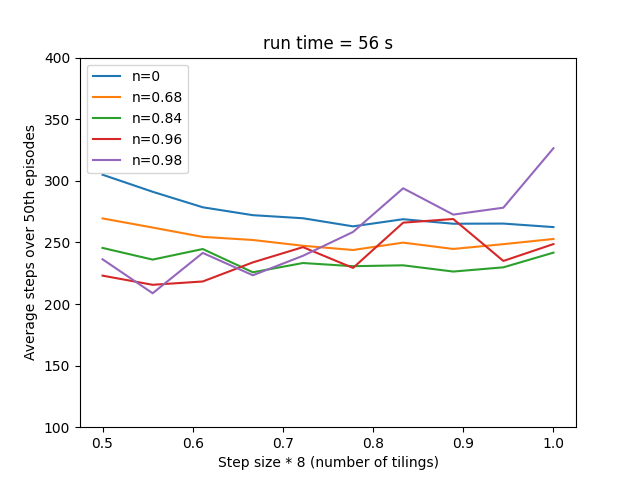
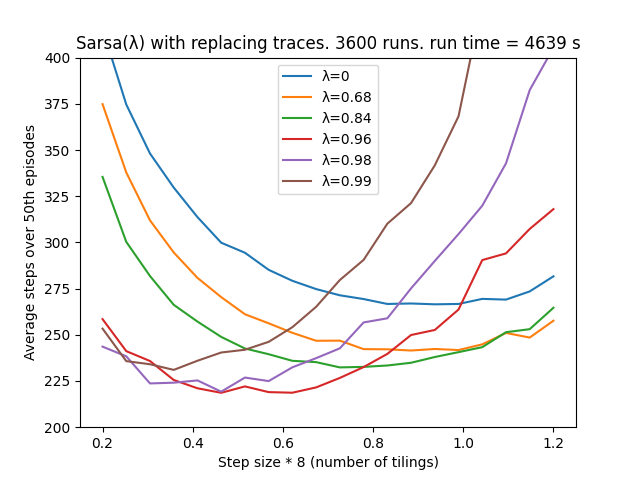
Sarsa(lambda)

diff --git a/Part II/CH12/Mountian_Car_Sarsa.py b/Part II/CH12/Mountian_Car_Sarsa.py
@@ -48,7 +48,7 @@ class MountainCar:
         self.weight = []
 
         # Tiling
-        self.max_size = 4096
+        self.max_size = 2048
         self.iht = IHT(self.max_size)
         self.pos_scale = self.n_tilings / abs(self.pos_bound[1] - self.pos_bound[0])
         self.vel_scale = self.n_tilings / abs(self.vel_bound[1] - self.vel_bound[0])
@@ -92,6 +92,12 @@ class MountainCar:
         active_tiles = tiles(self.iht, self.n_tilings, [pos * self.pos_scale, vel * self.vel_scale], [action])
         return active_tiles
 
+    def get_active_tiles_array(self, pos, vel, action):
+        x = np.zeros(self.max_size)
+        for i in self.get_active_tiles(pos, vel, action):
+            x[i] = 1
+        return x
+
     def get_state_action_value(self, pos, vel, action):
         """Approximate state-action value"""
         active_tiles = self.get_active_tiles(pos, vel, action)
@@ -100,12 +106,15 @@ class MountainCar:
         else:
             return np.sum(self.weight[active_tiles])
 
-    def sarsa_lambda(self, lamb):
-        """Sarsa(lambda) with binary features and linear function approximation"""
+    def sarsa_lambda(self, lamb, clearing=False):
+        """Sarsa(lambda) with binary features and linear function approximation.
+        Removed accumulating traces due to its poor performance."""
         self.reset()
         episode_length = []
+        episode_reward = []
         for _ in range(self.max_episodes):
             count = 0
+            total_reward = 0
             self.start_new_episode()
             z = np.zeros(self.max_size)
             pos, vel = self.pos, self.vel
@@ -113,19 +122,17 @@ class MountainCar:
             while True:
                 count += 1
                 pos_next, vel_next, reward = self.move_one_time_step(pos, vel, action)
-                delta = reward
-
-                for i in self.get_active_tiles(pos, vel, action):
-                    delta -= self.weight[i]
-                    # Replacing traces
-                    z[i] = 1
-                    # Accumulating traces
-                    # z[i] += 1
-
+                total_reward += reward
+                active_tiles = self.get_active_tiles(pos, vel, action)
+                delta = reward - np.sum(self.weight[active_tiles])
+                z[active_tiles] = [1] * self.n_tilings
+                if clearing:
+                    for a in self.actions:
+                        if a != action:
+                            z[self.get_active_tiles(pos, vel, a)] = [0] * self.n_tilings
                 if self.reached_terminal:
                     self.weight += self.step_size * delta * z
                     break
-
                 action_next = self.eps_greedy(pos_next, vel_next)
                 delta += self.discount * np.sum(self.weight[self.get_active_tiles(pos_next, vel_next, action_next)])
                 self.weight += self.step_size * delta * z
@@ -133,37 +140,111 @@ class MountainCar:
                 pos, vel, action = pos_next, vel_next, action_next
 
             episode_length.append(count)
-        return episode_length
+            episode_reward.append(total_reward)
+        return episode_length, episode_reward
+
+    def true_online_sarsa_lambda(self, lamb):
+        """True online Sarsa(lambda) for estimating"""
+        self.reset()
+        episode_length = []
+        episode_reward = []
+        for _ in range(self.max_episodes):
+            count = 0
+            total_reward = 0
+            self.start_new_episode()
+            pos, vel = self.pos, self.vel
+            action = self.eps_greedy(pos, vel)
+            x = self.get_active_tiles_array(pos, vel, action)
+            z = np.zeros(self.max_size)
+            q_old = 0
+            while not self.reached_terminal:
+                count += 1
+                pos_next, vel_next, reward = self.move_one_time_step(pos, vel, action)
+                total_reward += reward
+                action_next = self.eps_greedy(pos, vel)
+                x_next = self.get_active_tiles_array(pos_next, vel_next, action_next)
+                q, q_next = np.dot(self.weight, x), np.dot(self.weight, x_next)
+                delta = reward + self.discount * q_next - q
+                z = self.discount * lamb * z + (1 - self.step_size * self.discount * lamb * np.dot(z, x)) * x
+                self.weight += self.step_size * (delta + q - q_old) * z - self.step_size * (q - q_old) * x
+                q_old, x = q_next, x_next
+                pos, vel, action = pos_next, vel_next, action_next
+            episode_length.append(count)
+            episode_reward.append(total_reward)
+        return episode_length, episode_reward
 
     def figure_12_10(self):
         start_time = time.time()
         self.max_episodes = 50
-        repeat = 1
-        steps = [0, 0.68, 0.84, 0.96, 0.98]
-        time_steps = np.linspace(0.5, 1, 10)
+        repeat = 30
+        steps = [0, 0.68, 0.84, 0.96, 0.98, 0.99]
+        time_steps = np.linspace(0.2, 1.2, 20)
         runs = np.zeros((len(steps), len(time_steps)))
         plt.figure()
-        for _ in range(repeat):
+        for _ in trange(repeat):
             for i in range(len(steps)):
                 step = steps[i]
-                for j in trange(len(time_steps)):
+                for j in range(len(time_steps)):
                     self.step_size = time_steps[j] / self.n_tilings
-                    runs[i, j] += np.mean(self.sarsa_lambda(step))
+                    runs[i, j] += np.mean(self.sarsa_lambda(step)[0])
         runs /= repeat
 
         for i, step in enumerate(steps):
-            plt.plot(time_steps, runs[i, :], label='n=' + str(step))
+            plt.plot(time_steps, runs[i, :], label='\u03BB=' + str(step))
 
         plt.xlabel('Step size * 8 (number of tilings)')
         plt.ylabel('Average steps over 50th episodes')
-        plt.ylim(100, 400)
-        plt.title(f'run time = {int(time.time() - start_time)} s')
+        plt.ylim(200, 400)
+        plt.title(f'Sarsa(\u03BB) with replacing traces. {repeat * len(time_steps) * len(steps)} runs. '
+                  f'run time = {int(time.time() - start_time)} s')
         plt.legend()
 
         plt.savefig('images/figure 12.10.png')
         plt.close()
 
+    def figure_12_11_info(self, i, lamb):
+        clearing = [False, True]
+        if i in [0, 1]:
+            return self.sarsa_lambda(lamb, clearing[i])[1]
+        else:
+            return self.true_online_sarsa_lambda(lamb)[1]
+
+    def figure_12_11(self):
+        start_time = time.time()
+        self.max_episodes = 20
+        self.discount = 0.9
+        repeat = 1
+        lamb = 0.9
+        time_steps = np.linspace(0.2, 1.2, 10)
+        labels = ['Sarsa(\u03BB) with replacing traces',
+                  'Sarsa(\u03BB) with replacing and clearing traces',
+                  'True on-line Sarsa(\u03BB)']
+        runs = np.zeros((len(labels), len(time_steps)))
+        time_passed = np.zeros(len(labels))
+        plt.figure()
+        for x in range(repeat):
+            print(x)
+            for i in range(len(labels)):
+                for j in trange(len(time_steps)):
+                    self.step_size = time_steps[j] / self.n_tilings
+                    time_ = time.time()
+                    runs[i, j] += np.mean(self.figure_12_11_info(i, lamb))
+                    time_passed[i] += time.time() - time_
+        runs /= repeat
+
+        for i, label in enumerate(labels):
+            plt.plot(time_steps, runs[i, :], label=label + f'{int(time_passed[i])} s')
+
+        plt.xlabel('Step size * 8 (number of tilings)')
+        plt.ylabel('Average rewards over 20 episodes')
+        # plt.ylim(200, 300)
+        plt.title(f'Sarsa(\u03BB=0.9). {repeat * len(time_steps)} runs. run time = {int(time.time() - start_time)} s')
+        plt.legend()
+
+        plt.savefig('images/figure 12.11.png')
+        plt.close()
+
 
 if __name__ == "__main__":
     o = MountainCar()
-    o.figure_12_10()
+    o.figure_12_11()
